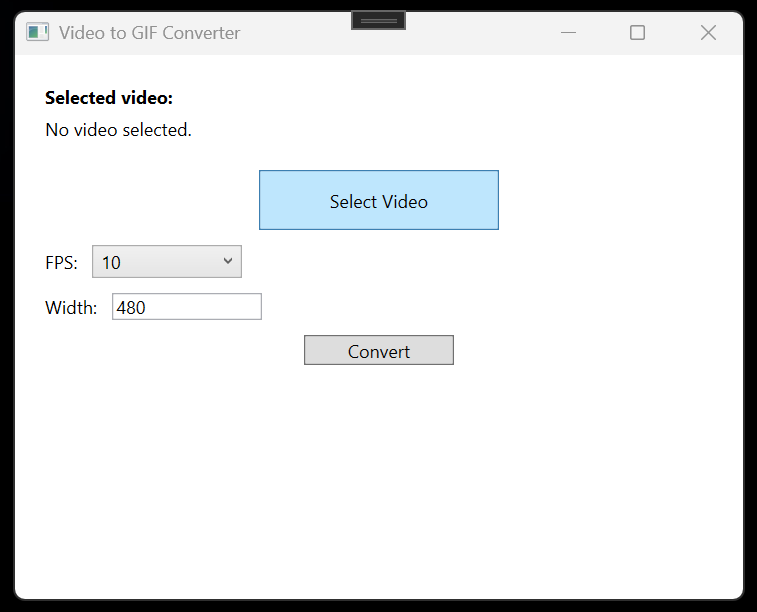
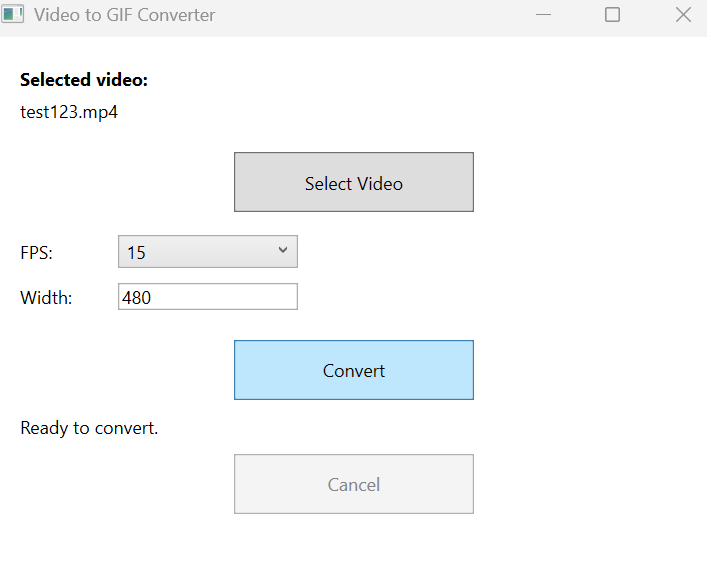
Update README and screenshot for v1.1

diff --git a/README.md b/README.md
@@ -1,72 +1,145 @@
 # VideoToGifConverter
 
-A desktop application for converting videos into GIFs using FFmpeg.
+A Windows desktop application for converting videos into animated GIFs using **C#, .NET 10, WPF and FFmpeg**.
 
-<img src="docs/images/main_window.png" alt="VideoToGifConverter" width="600">
+<img src="docs/images/main_window.png" alt="VideoToGifConverter main window" width="600">
 
 ## Features
 
-- Convert videos to GIFs
+- Convert video files into animated GIFs
 - Adjustable frame rate (10–30 FPS)
-- Adjustable output width
-- Automatic height calculation to preserve aspect ratio
+- Adjustable output width with automatic aspect ratio preservation
+- Palette optimization using FFmpeg's `palettegen` and `paletteuse` filters
+- Real-time conversion progress bar with percentage display
+- Cancel conversions while they are running
+- Automatically delete incomplete GIFs after cancellation
 - Asynchronous conversion to keep the UI responsive
-- FFmpeg error reporting
-- FFmpeg availability checking
-- Output file selection
-- Input validation
-- Overwrite protection through the Windows Save dialog
+- Input validation and descriptive error messages
+- Conversion status messages (ready, converting, completed, failed, cancelled)
+- Windows file dialogs for selecting input videos and output locations
+- Default settings of 15 FPS and 480 pixels wide
 
 ## Project Structure
 
 ### VideoToGifConverter.Core
 
-- Conversion logic
-- FFmpeg integration
-- Shared models
-- UI-independent services
+Contains the application logic, including:
+
+- Video-to-GIF conversion
+- FFmpeg process management
+- FFprobe video duration detection
+- Progress calculation
+- Cancellation handling
+- Input validation
+- Shared models and interfaces
 
 ### VideoToGifConverter.Desktop
 
-- WPF desktop application
+The WPF desktop application, responsible for:
+
 - User interface
-- User input and validation
+- Video selection
+- Conversion settings
+- Progress display
+- User interaction and status messages
 
 ### VideoToGifConverter.Tests
 
-- Unit tests
+Contains automated unit tests for conversion logic, validation, progress reporting, FFmpeg arguments and cancellation behavior.
+
+**Current test suite: 25 tests.**
 
 ## Technologies
 
 - C#
 - .NET 10
 - WPF
-- FFmpeg
+- FFmpeg and FFprobe
+- xUnit (unit testing)
 
-## Status
+## Getting Started
 
-### v1.0
+### Requirements
 
-The first working version of the application is complete and has been tested with normal and invalid input scenarios.
+- Windows
+- .NET 10 SDK (for building from source)
+- FFmpeg and FFprobe executables
+
+### Running the Application
+
+1. Clone or download this repository.
+2. Open the solution in Visual Studio with .NET desktop development support.
+3. Obtain the Windows FFmpeg executables.
+4. Place `ffmpeg.exe` and `ffprobe.exe` inside a folder named `ffmpeg` in the application's output directory, alongside the compiled application.
+5. Build and run `VideoToGifConverter.Desktop`.
+
+The application looks for FFmpeg in:
+
+`<Application Output Directory>/ffmpeg/ffmpeg.exe`
+
+And FFprobe in:
+
+`<Application Output Directory>/ffmpeg/ffprobe.exe`
+
+### Using the Converter
+
+1. Click **Select Video** and choose a video file.
+2. Select your desired FPS.
+3. Enter the GIF output width.
+4. Click **Convert** and choose where to save the GIF.
+5. Monitor the conversion progress or click **Cancel** to stop the operation.
+
+**Note:** High resolutions and frame rates can produce very large GIF files. The default settings of 15 FPS and 480 pixels provide a more practical starting point for typical conversions.
+
+## Running Tests
+
+Run the automated tests from the solution directory:
+
+```bash
+dotnet test
+```
+
+The tests use fake implementations of external dependencies, allowing the conversion logic to be tested without launching FFmpeg.
+
+## Development Status
+
+### v1.0 — Initial Release
+
+The first functional version of the desktop converter, including video selection, adjustable settings, basic validation and GIF generation.
+
+### v1.1 — In Development
+
+Implemented improvements:
+
+- Real-time conversion progress
+- Cancellation support
+- Automatic cleanup after cancellation
+- Expanded input validation
+- Palette-optimized GIF generation
+- Improved interface layout
+- Percentage and conversion status displays
+- Automated tests for conversion behavior
+
+Remaining work: documentation review and final release checks.
 
 ## Planned Improvements
 
-- GIF quality and palette optimization
-- Custom height
-- Preview before conversion
-- Conversion cancellation
-- Real conversion progress
-- Drag-and-drop support
+Potential future features include:
+
+- Video preview before conversion
+- Video trimming and custom start/end times
+- Custom output height
+- Drag-and-drop video selection
+- GIF conversion quality presets
 - Batch conversion
-- Installer/distribution
+- Application installer and distribution
 
 ## FFmpeg
 
-This application uses FFmpeg for video processing.
+This application uses FFmpeg for video processing and FFprobe for retrieving video information.
 
-The source repository does not include the FFmpeg executable. The
-application is developed and tested with the Gyan.dev Windows
-essentials build of FFmpeg 8.1.2.
+The source repository does not include the FFmpeg executables. The application has been developed and tested with the Gyan.dev Windows essentials build of FFmpeg 8.1.2.
 
-See [THIRD-PARTY-NOTICES.md](THIRD-PARTY-NOTICES.md) for FFmpeg
-build and licensing information.
+See [THIRD-PARTY-NOTICES.md](THIRD-PARTY-NOTICES.md) for FFmpeg build and licensing information.
+
+FFmpeg is developed by its respective contributors and is subject to its own licensing terms.
